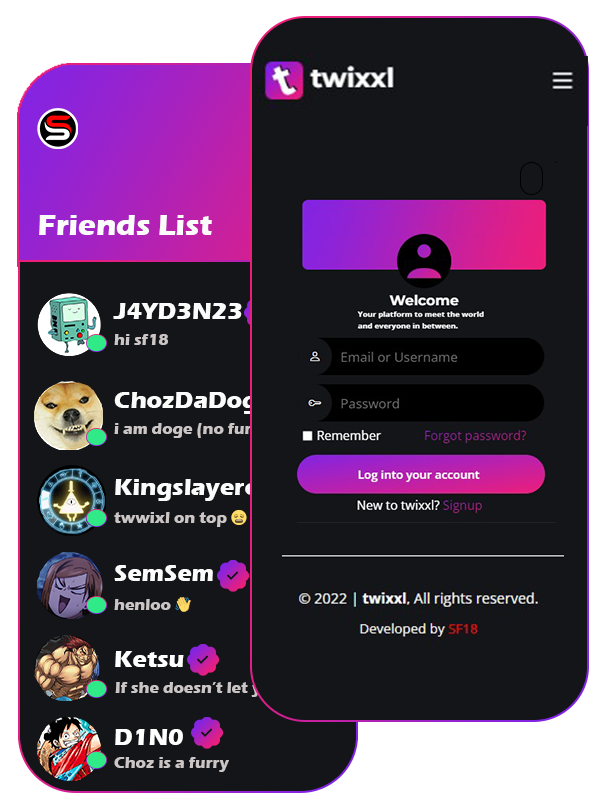
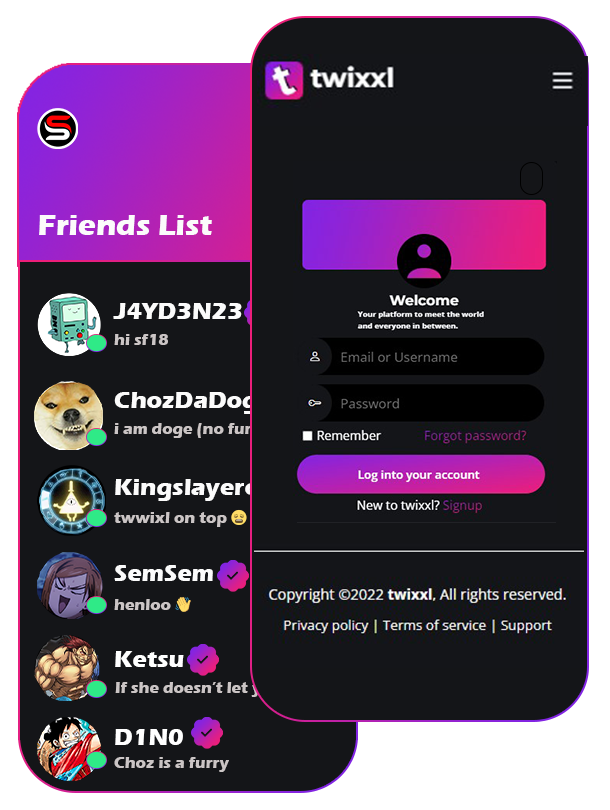
did some changes

Changed region(s): [[0.4361, 0.679, 0.9344, 0.8025]]

diff --git a/assets/js/main.js b/assets/js/main.js
@@ -274,3 +274,57 @@ let trans = () => {
 function comingsoon() {
 document.getElementById('alert').style.display = "block";
 }
+
+// About Video
+
+const videoPlayer = document.querySelector('.video-player')
+const video = videoPlayer.querySelector('.video')
+const playButton = videoPlayer.querySelector('.play-button')
+const volume = videoPlayer.querySelector('.volume')
+const currentTimeElement = videoPlayer.querySelector('.current')
+const durationTimeElement = videoPlayer.querySelector('.duration')
+const progress = videoPlayer.querySelector('.video-progress')
+const progressBar = videoPlayer.querySelector('.video-progress-filled')
+
+
+//Play and Pause button
+playButton.addEventListener('click', (e) => {
+  if(video.paused){
+    video.play()
+    e.target.textContent = '❚ ❚'
+  } else {
+    video.pause()
+    e.target.textContent = '►'
+  }
+})
+
+//volume
+volume.addEventListener('mousemove', (e)=> {
+  video.volume = e.target.value
+})
+
+//current time and duration
+const currentTime = () => {
+  let currentMinutes = Math.floor(video.currentTime / 60)
+  let currentSeconds = Math.floor(video.currentTime - currentMinutes * 60)
+  let durationMinutes = Math.floor(video.duration / 60)
+  let durationSeconds = Math.floor(video.duration - durationMinutes * 60)
+
+  currentTimeElement.innerHTML = `${currentMinutes}:${currentSeconds < 10 ? '0'+currentSeconds : currentSeconds}`
+  durationTimeElement.innerHTML = `${durationMinutes}:${durationSeconds}`
+}
+
+video.addEventListener('timeupdate', currentTime)
+
+
+//Progress bar
+video.addEventListener('timeupdate', () =>{
+  const percentage = (video.currentTime / video.duration) * 100
+  progressBar.style.width = `${percentage}%`
+})
+
+//change progress bar on click
+progress.addEventListener('click', (e) =>{
+  const progressTime = (e.offsetX / progress.offsetWidth) * video.duration
+  video.currentTime = progressTime
+})

diff --git a/index.html b/index.html
@@ -140,8 +140,9 @@
 
         <div class="row">
           <div class="col-xl-5 col-lg-6 video-box d-flex justify-content-center align-items-stretch" data-aos="fade-right">
-            <a href="/assets/Welcome - twixxl - Brave 2022-04-26 21-13-20.mp4" class="venobox play-btn mb-4" data-vbtype="video" data-autoplay="true"></a>
+            <a class="venobox play-btn mb-4" data-vbtype="video" data-autoplay="true"></a>
           </div>
+          
 
           <div class="col-xl-7 col-lg-6 icon-boxes d-flex flex-column align-items-stretch justify-content-center py-5 px-lg-5" data-aos="fade-left">
             <h3>What is twixxl?</h3>
@@ -672,7 +673,7 @@
             <h4>Useful Links</h4>
             <ul>
               <li><i class="bx bx-chevron-right"></i> <a href="#">Home</a></li>
-              <li><i class="bx bx-chevron-right"></i> <a href="#">About us</a></li>
+              <li><i class="bx bx-chevron-right"></i> <a href="#about">About us</a></li>
               <li><i class="bx bx-chevron-right"></i> <a href="#">Status</a></li>
               <li><i class="bx bx-chevron-right"></i> <a href="#">Terms of service</a></li>
               <li><i class="bx bx-chevron-right"></i> <a href="#">Privacy policy</a></li>
@@ -708,10 +709,10 @@
 
     <div class="container">
       <div class="copyright">
-        &copy; 2022 | <strong><span>twixxl</span></strong>, All rights reserved.
+        Copyright &copy;2022 <strong><span>twixxl</span></strong>, All rights reserved.
       </div>
       <div class="credits">
-        Developed by <a href="https://sf18.glitch.me/">SF18</a>
+        <a href="">Privacy policy</a> | <a href="">Terms of service</a> | <a href="">Support</a>
       </div>
     </div>
   </footer><!-- End Footer -->

diff --git a/assets/css/style.css b/assets/css/style.css
@@ -857,6 +857,7 @@ section {
   background: url("../img/about.png") center center no-repeat;
   background-size: contain;
   min-height: 300px;
+  border-radius: 12px;
 }
 .about .play-btn {
   width: 94px;
@@ -901,8 +902,8 @@ section {
   opacity: 1;
   border-radius: 50%;
   border: 5px solid rgba(255, 255, 255, 0.7);
-  top: -15%;
-  left: -15%;
+  top: -14%;
+  left: -13%;
   background: rgba(198, 16, 0, 0);
 }
 .about .play-btn:hover::after {
@@ -1633,18 +1634,23 @@ section {
   text-align: center;
   padding-top: 30px;
 }
+
 #footer .credits {
   padding-top: 10px;
   text-align: center;
   font-size: 13px;
   color: #fff;
 }
-#footer .credits a {
+#footer .credits a:hover {
   padding-top: 10px;
   text-align: center;
   font-size: 13px;
-  color: rgb(255, 0, 0);
+  background-image: linear-gradient( 170deg,#8224e3,#ed1e79);
+  -webkit-background-clip: text;
+  background-clip: text;
+  -webkit-text-fill-color: transparent;
 }
+
 @media (max-width: 575px) {
   #footer .footer-top .footer-info {
     margin: -20px 0 30px 0;
